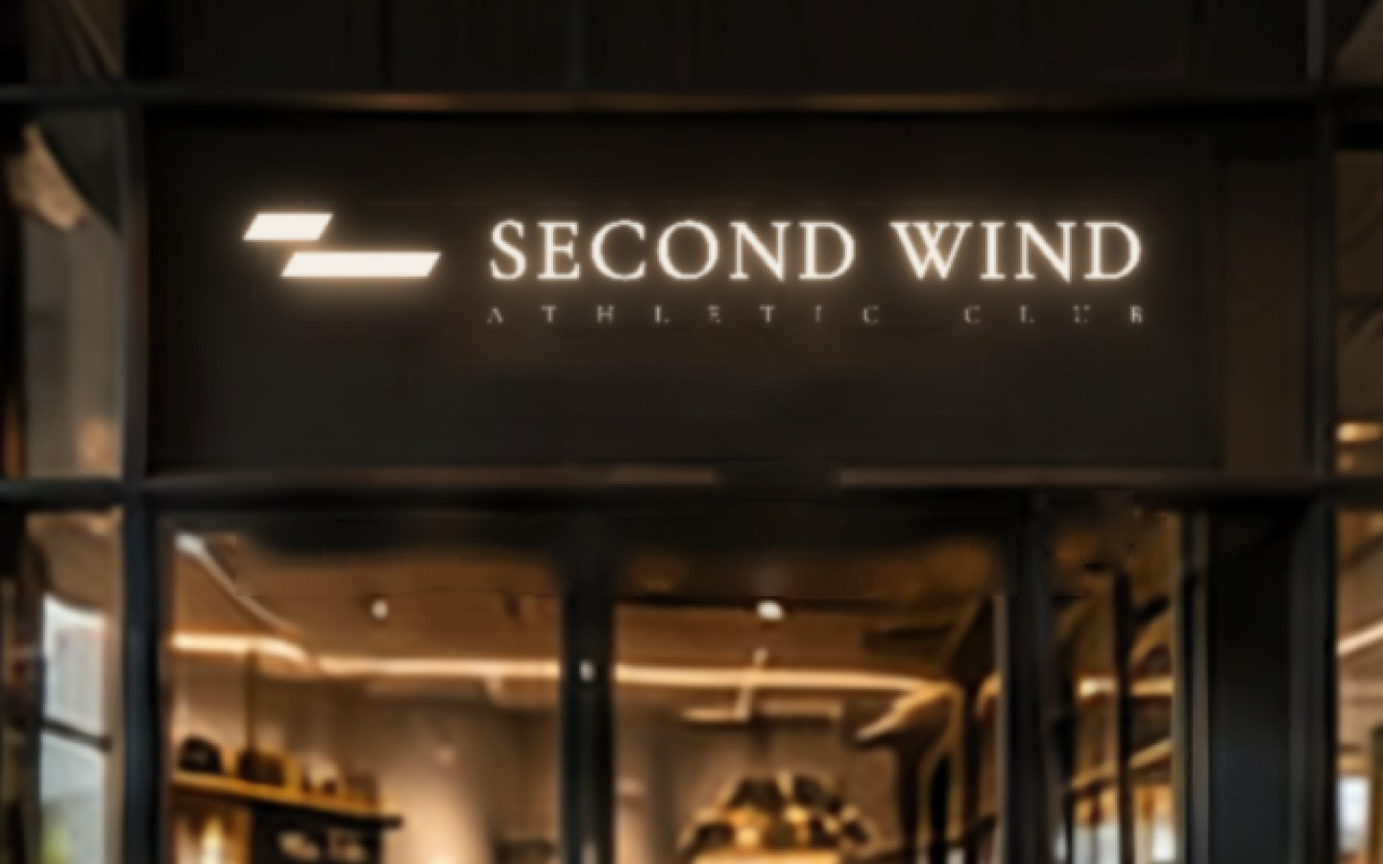
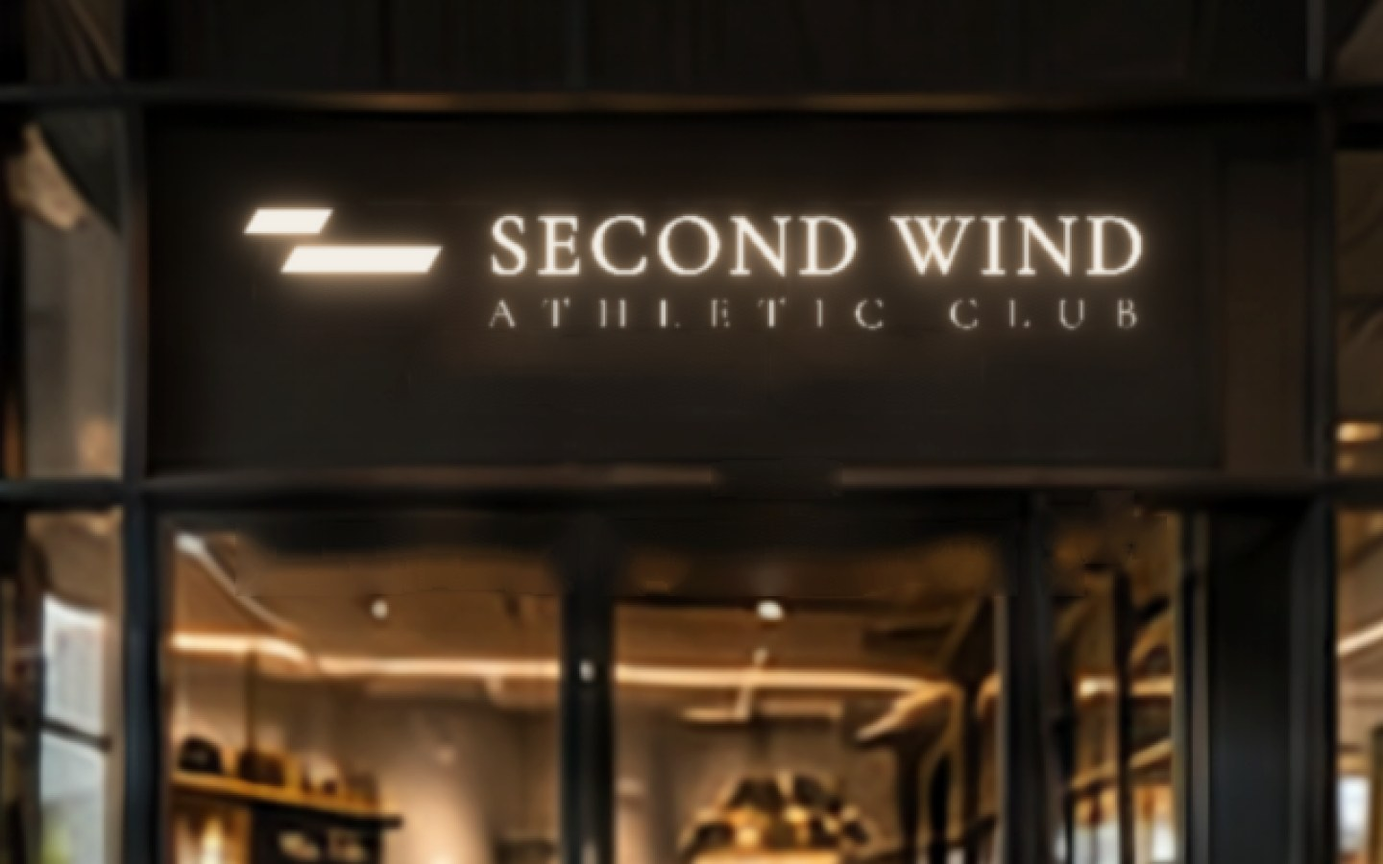
33: club line sized up to the name's width instead of stretched spacing (Sergio's ask on 15)
Claude-Session: https://claude.ai/code/session_01T7nJu2bFotHgzhJym42XGa

Changed region(s): [[0.1562, 0.2178, 0.8438, 0.4044]]

diff --git a/brand/identity.html b/brand/identity.html
@@ -265,11 +265,11 @@ html { -webkit-text-size-adjust:100%; text-size-adjust:100%; }
       <p class="k">Gym wall · linen letters, bold, warm halo 3000 K · café wall · blackened bronze letters, light, unlit · café front · lit header over the doors · glass · frosted film</p></div>
     <div class="frames">
       <div class="row2">
-        <div class="f" style="aspect-ratio:16/10;background:#1e1c1a"><img class="photo" src="photo/fam/B5-gym.jpg?v=ffdc3912" alt="The gym end wall with the stacked lockup in the bold weight, halo-lit on the charcoal wall above the kettlebells"><span class="cap" style="color:#fff;opacity:.85">Gym end wall · bold · render by HUB Interiors</span></div>
-        <div class="f" style="aspect-ratio:16/10;background:#1e1c1a"><img class="photo" src="photo/fam/B5-cafe.jpg?v=ffdc3912" alt="The café counter wall with the stacked mark in blackened bronze above Fuel good days"><span class="cap" style="color:#fff;opacity:.85">Café counter wall · light · blackened bronze</span></div>
+        <div class="f" style="aspect-ratio:16/10;background:#1e1c1a"><img class="photo" src="photo/fam/B5-gym.jpg?v=f4bc1d90" alt="The gym end wall with the stacked lockup in the bold weight, halo-lit on the charcoal wall above the kettlebells"><span class="cap" style="color:#fff;opacity:.85">Gym end wall · bold · render by HUB Interiors</span></div>
+        <div class="f" style="aspect-ratio:16/10;background:#1e1c1a"><img class="photo" src="photo/fam/B5-cafe.jpg?v=f4bc1d90" alt="The café counter wall with the stacked mark in blackened bronze above Fuel good days"><span class="cap" style="color:#fff;opacity:.85">Café counter wall · light · blackened bronze</span></div>
       </div>
-      <div class="f" style="aspect-ratio:1308/770;background:#1e1c1a"><img class="photo" src="photo/rev2-cafe-gym.jpg?v=ffdc3912" alt="The café booths looking through glass into the gym, with the symbol lit on the far wall"><span class="cap" style="color:#fff;opacity:.85">Café into gym · the symbol on the far wall</span></div>
-      <div class="f" style="aspect-ratio:1761/718;background:#fff"><img class="photo" src="photo/rev2-plan-crop.jpg?v=ffdc3912" alt="HUB concept plan, revision 2, with brand placements numbered" style="object-fit:contain">
+      <div class="f" style="aspect-ratio:1308/770;background:#1e1c1a"><img class="photo" src="photo/rev2-cafe-gym.jpg?v=f4bc1d90" alt="The café booths looking through glass into the gym, with the symbol lit on the far wall"><span class="cap" style="color:#fff;opacity:.85">Café into gym · the symbol on the far wall</span></div>
+      <div class="f" style="aspect-ratio:1761/718;background:#fff"><img class="photo" src="photo/rev2-plan-crop.jpg?v=f4bc1d90" alt="HUB concept plan, revision 2, with brand placements numbered" style="object-fit:contain">
         <span class="pin" style="left:71.5%;top:54%">1</span>
         <span class="pin" style="left:80%;top:78%">2</span>
         <span class="pin" style="left:67.8%;top:30.6%">3</span>
@@ -401,7 +401,7 @@ html { -webkit-text-size-adjust:100%; text-size-adjust:100%; }
           <div class="tabs"><i class="on">Posts</i><i>About</i><i>Photos</i><i>Reviews</i><i>More</i></div></div>
         <div class="body">
           <div class="card"><b>Intro</b><p>A café and training club in the Perth CBD. Coffee out front, a serious floor behind the glass.</p><p>📍 Suite G.01, 220 St Georges Terrace, Perth</p><p>🕕 Mon–Fri 5.30–20.00 · Sat 7.00–12.00</p><p>🔗 secondwind.club</p></div>
-          <div class="card post"><b>Second Wind Athletic Club</b><p>This is what's going in. Walnut, bronze, a numbered turf track and a lot of serious equipment. Concept by HUB Interiors. Founding memberships open soon.</p><div class="ph"><img class="photo" src="photo/hub-reception.jpg?v=ffdc3912" alt="" style="object-position:70% 50%"><div class="sl" data-sw="symbol" data-c="bone" style="left:5%;top:5%;width:12%;height:8%"></div></div></div>
+          <div class="card post"><b>Second Wind Athletic Club</b><p>This is what's going in. Walnut, bronze, a numbered turf track and a lot of serious equipment. Concept by HUB Interiors. Founding memberships open soon.</p><div class="ph"><img class="photo" src="photo/hub-reception.jpg?v=f4bc1d90" alt="" style="object-position:70% 50%"><div class="sl" data-sw="symbol" data-c="bone" style="left:5%;top:5%;width:12%;height:8%"></div></div></div>
         </div>
       </div>
       <div class="ig">
@@ -411,13 +411,13 @@ html { -webkit-text-size-adjust:100%; text-size-adjust:100%; }
         <div class="hl"><i><s></s>The build</i><i><s></s>Coaches</i><i><s></s>House rules</i><i><s></s>Founding 50</i></div>
         <div class="grid">
           <div><div class="sl" data-sw="stacked" data-c="ink" style="left:20%;top:16%;width:60%;height:68%"></div></div>
-          <div><img class="photo" src="photo/rack.jpg?v=ffdc3912" alt="" style="filter:saturate(.7) sepia(.15)"></div>
+          <div><img class="photo" src="photo/rack.jpg?v=f4bc1d90" alt="" style="filter:saturate(.7) sepia(.15)"></div>
           <div style="background:var(--green)"><p class="tile-t cond" style="left:8%;top:14%;width:84%;font-size:14cqw;color:var(--bone)">If you're pushing hard, you belong here.</p><div class="sl" data-sw="symbol" data-c="bone" style="left:8%;top:80%;width:16%;height:10%"></div></div>
           <div style="background:#cfc7b8"><p class="tile-t mono" style="left:8%;top:10%;font-size:4cqw;color:#5d5f57">The build · Week 06</p><p class="tile-t cond" style="left:8%;top:22%;width:84%;font-size:15cqw">Flooring<br>down.</p><div class="sl" data-sw="symbol" data-c="ink" style="left:8%;top:82%;width:16%;height:10%"></div></div>
-          <div><img class="photo" src="photo/tank-worn.jpg?v=ffdc3912" alt="" style="filter:saturate(.75) sepia(.1)"></div>
+          <div><img class="photo" src="photo/tank-worn.jpg?v=f4bc1d90" alt="" style="filter:saturate(.75) sepia(.1)"></div>
           <div><p class="tile-t mono" style="left:8%;top:10%;font-size:4cqw;color:var(--green)">Founding members</p><p class="tile-t cond" style="left:8%;top:22%;font-size:26cqw;line-height:.9">50</p><p class="tile-t mono" style="left:8%;top:74%;font-size:4cqw;opacity:.7">One run. Numbered.</p></div>
           <div style="background:var(--green)"><p class="tile-t cond" style="left:8%;top:24%;width:84%;font-size:17cqw;color:var(--bone)">Effort,<br>not ability.</p></div>
-          <div><img class="photo" src="photo/perth.jpg?v=ffdc3912" alt=""></div>
+          <div><img class="photo" src="photo/perth.jpg?v=f4bc1d90" alt=""></div>
           <div style="background:var(--black)"><p class="tile-t cond" style="left:8%;top:10%;font-size:48cqw;line-height:.9;color:var(--bone)">11</p><p class="tile-t mono" style="left:8%;top:76%;font-size:4cqw;color:var(--bone);opacity:.7">The turf track</p></div>
         </div>
       </div>
@@ -431,12 +431,12 @@ html { -webkit-text-size-adjust:100%; text-size-adjust:100%; }
       <p>The symbol embroiders in one direction with no counters, which is why it was built from two strokes and not a letter. Tees at $80 to $100 on heavy cotton, caps embroidered, the Founding 50 numbered and never reprinted.</p></div>
     <div class="frames">
       <div class="row3">
-        <div class="f tall"><img class="photo" src="photo/cap.jpg?v=ffdc3912" alt=""><div class="sl blend" data-sw="symbol" data-c="ink" style="left:38%;top:46%;width:24%;height:12%"></div><span class="cap" style="color:#000">Cap · symbol · 60 mm</span></div>
-        <div class="f tall"><img class="photo" src="photo/tee-hanger.jpg?v=ffdc3912" alt=""><div class="sl blend" data-sw="symbol" data-c="ink" style="left:54%;top:32%;width:8%;height:4%"></div><span class="cap" style="color:#000">Tee · left chest · 40 mm</span></div>
-        <div class="f tall"><img class="photo" src="photo/polo.jpg?v=ffdc3912" alt=""><div class="sl blend" data-sw="primary" data-c="ink" style="left:52%;top:46%;width:14%;height:6%"></div><span class="cap" style="color:#000">Coach polo · primary · 80 mm</span></div>
+        <div class="f tall"><img class="photo" src="photo/cap.jpg?v=f4bc1d90" alt=""><div class="sl blend" data-sw="symbol" data-c="ink" style="left:38%;top:46%;width:24%;height:12%"></div><span class="cap" style="color:#000">Cap · symbol · 60 mm</span></div>
+        <div class="f tall"><img class="photo" src="photo/tee-hanger.jpg?v=f4bc1d90" alt=""><div class="sl blend" data-sw="symbol" data-c="ink" style="left:54%;top:32%;width:8%;height:4%"></div><span class="cap" style="color:#000">Tee · left chest · 40 mm</span></div>
+        <div class="f tall"><img class="photo" src="photo/polo.jpg?v=f4bc1d90" alt=""><div class="sl blend" data-sw="primary" data-c="ink" style="left:52%;top:46%;width:14%;height:6%"></div><span class="cap" style="color:#000">Coach polo · primary · 80 mm</span></div>
       </div>
       <div class="row2">
-        <div class="f tall k"><img class="photo" src="photo/tank-worn.jpg?v=ffdc3912" alt=""><div class="sl screen" data-sw="symbol" data-c="bone" style="left:44%;top:64%;width:12%;height:6%"></div><span class="cap" style="color:#fff">Muscle tank · symbol · centre</span></div>
+        <div class="f tall k"><img class="photo" src="photo/tank-worn.jpg?v=f4bc1d90" alt=""><div class="sl screen" data-sw="symbol" data-c="bone" style="left:44%;top:64%;width:12%;height:6%"></div><span class="cap" style="color:#fff">Muscle tank · symbol · centre</span></div>
         <div class="f tall g"><span class="n">Founding 50 · back</span><p class="t cond" style="left:0;right:0;top:26%;text-align:center;font-size:12cqw">Founding<br>member</p><div class="bar" style="left:40%;width:20%;top:54%;height:.5cqw;background:var(--copper)"></div><p class="t mono" style="left:0;right:0;top:58%;text-align:center;font-size:2.2cqw">31.9531° S · 115.8533° E</p><div class="sl" data-sw="symbol" data-c="bone" style="left:40%;top:72%;width:20%;height:10%"></div></div>
       </div>
     </div>
@@ -455,7 +455,7 @@ html { -webkit-text-size-adjust:100%; text-size-adjust:100%; }
           <p class="t cond" style="left:5%;top:22%;width:52%;font-size:7.2cqw;line-height:.92">Serious training.<br>Explained.</p>
           <p class="t" style="left:5%;top:58%;width:44%;font-size:2.2cqw;line-height:1.3;color:var(--muted);font-family:var(--f-body)">A café and training club in the Perth CBD. Coffee out front, a serious floor behind the glass. Opening 2027.</p>
           <div class="t" style="left:5%;top:80%;background:var(--green);color:var(--bone);font-family:var(--f-label);font-size:1.7cqw;letter-spacing:.1em;text-transform:uppercase;padding:1.2cqw 2.4cqw">Join the waitlist</div>
-          <img src="photo/rack.jpg?v=ffdc3912" alt="" style="position:absolute;right:0;top:18%;width:40%;height:82%;object-fit:cover;filter:saturate(.7) sepia(.15)">
+          <img src="photo/rack.jpg?v=f4bc1d90" alt="" style="position:absolute;right:0;top:18%;width:40%;height:82%;object-fit:cover;filter:saturate(.7) sepia(.15)">
           <div class="sl" data-sw="symbol" data-c="bone" style="right:4%;top:24%;width:10%;height:6%"></div>
         </div></div>
       <div class="row3">
@@ -505,7 +505,7 @@ html { -webkit-text-size-adjust:100%; text-size-adjust:100%; }
   </div>
 </div>
 
-<script src="brand.js?v=ffdc3912"></script>
+<script src="brand.js?v=f4bc1d90"></script>
 <script>
 (function () {
   /* two extra variants for the motion frame: each stroke alone, in the symbol's own box */

diff --git a/brand/identity-alt.html b/brand/identity-alt.html
@@ -254,7 +254,7 @@ html { -webkit-text-size-adjust:100%; text-size-adjust:100%; }
         <div class="f" style="aspect-ratio:16/10;background:#1e1c1a"><img class="photo" data-src="cafe" src="" alt="The café counter wall with the stacked mark in blackened bronze above Fuel good days"><span class="cap" style="color:#fff;opacity:.85">Café counter wall · light · blackened bronze</span></div>
       </div>
       <div class="f" style="aspect-ratio:1308/770;background:#1e1c1a"><img class="photo" data-src="cafegym" src="" alt="The café booths looking through glass into the gym, with the symbol lit on the far wall"><span class="cap" style="color:#fff;opacity:.85">Café into gym · the symbol on the far wall</span></div>
-      <div class="f" style="aspect-ratio:1761/718;background:#fff"><img class="photo" src="photo/rev2-plan-crop.jpg?v=ffdc3912" alt="HUB concept plan, revision 2, with brand placements numbered" style="object-fit:contain">
+      <div class="f" style="aspect-ratio:1761/718;background:#fff"><img class="photo" src="photo/rev2-plan-crop.jpg?v=f4bc1d90" alt="HUB concept plan, revision 2, with brand placements numbered" style="object-fit:contain">
         <span class="pin" style="left:71.5%;top:54%">1</span>
         <span class="pin" style="left:80%;top:78%">2</span>
         <span class="pin" style="left:67.8%;top:30.6%">3</span>
@@ -386,7 +386,7 @@ html { -webkit-text-size-adjust:100%; text-size-adjust:100%; }
           <div class="tabs"><i class="on">Posts</i><i>About</i><i>Photos</i><i>Reviews</i><i>More</i></div></div>
         <div class="body">
           <div class="card"><b>Intro</b><p>A café and training club in the Perth CBD. Coffee out front, a serious floor behind the glass.</p><p>📍 Suite G.01, 220 St Georges Terrace, Perth</p><p>🕕 Mon–Fri 5.30–20.00 · Sat 7.00–12.00</p><p>🔗 secondwind.club</p></div>
-          <div class="card post"><b>Second Wind Athletic Club</b><p>This is what's going in. Walnut, bronze, a numbered turf track and a lot of serious equipment. Concept by HUB Interiors. Founding memberships open soon.</p><div class="ph"><img class="photo" src="photo/hub-reception.jpg?v=ffdc3912" alt="" style="object-position:70% 50%"><div class="sl" data-sw="symbol" data-c="bone" style="left:5%;top:5%;width:12%;height:8%"></div></div></div>
+          <div class="card post"><b>Second Wind Athletic Club</b><p>This is what's going in. Walnut, bronze, a numbered turf track and a lot of serious equipment. Concept by HUB Interiors. Founding memberships open soon.</p><div class="ph"><img class="photo" src="photo/hub-reception.jpg?v=f4bc1d90" alt="" style="object-position:70% 50%"><div class="sl" data-sw="symbol" data-c="bone" style="left:5%;top:5%;width:12%;height:8%"></div></div></div>
         </div>
       </div>
       <div class="ig">
@@ -396,13 +396,13 @@ html { -webkit-text-size-adjust:100%; text-size-adjust:100%; }
         <div class="hl"><i><s></s>The build</i><i><s></s>Coaches</i><i><s></s>House rules</i><i><s></s>Founding 50</i></div>
         <div class="grid">
           <div><div class="sl" data-sw="stacked" data-c="ink" style="left:20%;top:16%;width:60%;height:68%"></div></div>
-          <div><img class="photo" src="photo/rack.jpg?v=ffdc3912" alt="" style="filter:saturate(.7) sepia(.15)"></div>
+          <div><img class="photo" src="photo/rack.jpg?v=f4bc1d90" alt="" style="filter:saturate(.7) sepia(.15)"></div>
           <div style="background:var(--green)"><p class="tile-t cond" style="left:8%;top:14%;width:84%;font-size:14cqw;color:var(--bone)">If you're pushing hard, you belong here.</p><div class="sl" data-sw="symbol" data-c="bone" style="left:8%;top:80%;width:16%;height:10%"></div></div>
           <div style="background:#cfc7b8"><p class="tile-t mono" style="left:8%;top:10%;font-size:4cqw;color:#5d5f57">The build · Week 06</p><p class="tile-t cond" style="left:8%;top:22%;width:84%;font-size:15cqw">Flooring<br>down.</p><div class="sl" data-sw="symbol" data-c="ink" style="left:8%;top:82%;width:16%;height:10%"></div></div>
-          <div><img class="photo" src="photo/tank-worn.jpg?v=ffdc3912" alt="" style="filter:saturate(.75) sepia(.1)"></div>
+          <div><img class="photo" src="photo/tank-worn.jpg?v=f4bc1d90" alt="" style="filter:saturate(.75) sepia(.1)"></div>
           <div><p class="tile-t mono" style="left:8%;top:10%;font-size:4cqw;color:var(--green)">Founding members</p><p class="tile-t cond" style="left:8%;top:22%;font-size:26cqw;line-height:.9">50</p><p class="tile-t mono" style="left:8%;top:74%;font-size:4cqw;opacity:.7">One run. Numbered.</p></div>
           <div style="background:var(--green)"><p class="tile-t cond" style="left:8%;top:24%;width:84%;font-size:17cqw;color:var(--bone)">Effort,<br>not ability.</p></div>
-          <div><img class="photo" src="photo/perth.jpg?v=ffdc3912" alt=""></div>
+          <div><img class="photo" src="photo/perth.jpg?v=f4bc1d90" alt=""></div>
           <div style="background:var(--black)"><p class="tile-t cond" style="left:8%;top:10%;font-size:48cqw;line-height:.9;color:var(--bone)">11</p><p class="tile-t mono" style="left:8%;top:76%;font-size:4cqw;color:var(--bone);opacity:.7">The turf track</p></div>
         </div>
       </div>
@@ -416,12 +416,12 @@ html { -webkit-text-size-adjust:100%; text-size-adjust:100%; }
       <p><span data-t="embroider"></span> Tees at $80 to $100 on heavy cotton, caps embroidered, the Founding 50 numbered and never reprinted.</p></div>
     <div class="frames">
       <div class="row3">
-        <div class="f tall"><img class="photo" src="photo/cap.jpg?v=ffdc3912" alt=""><div class="sl blend" data-sw="symbol" data-c="ink" style="left:38%;top:46%;width:24%;height:12%"></div><span class="cap" style="color:#000">Cap · symbol · 60 mm</span></div>
-        <div class="f tall"><img class="photo" src="photo/tee-hanger.jpg?v=ffdc3912" alt=""><div class="sl blend" data-sw="symbol" data-c="ink" style="left:54%;top:32%;width:8%;height:4%"></div><span class="cap" style="color:#000">Tee · left chest · 40 mm</span></div>
-        <div class="f tall"><img class="photo" src="photo/polo.jpg?v=ffdc3912" alt=""><div class="sl blend" data-sw="primary" data-c="ink" style="left:52%;top:46%;width:14%;height:6%"></div><span class="cap" style="color:#000">Coach polo · primary · 80 mm</span></div>
+        <div class="f tall"><img class="photo" src="photo/cap.jpg?v=f4bc1d90" alt=""><div class="sl blend" data-sw="symbol" data-c="ink" style="left:38%;top:46%;width:24%;height:12%"></div><span class="cap" style="color:#000">Cap · symbol · 60 mm</span></div>
+        <div class="f tall"><img class="photo" src="photo/tee-hanger.jpg?v=f4bc1d90" alt=""><div class="sl blend" data-sw="symbol" data-c="ink" style="left:54%;top:32%;width:8%;height:4%"></div><span class="cap" style="color:#000">Tee · left chest · 40 mm</span></div>
+        <div class="f tall"><img class="photo" src="photo/polo.jpg?v=f4bc1d90" alt=""><div class="sl blend" data-sw="primary" data-c="ink" style="left:52%;top:46%;width:14%;height:6%"></div><span class="cap" style="color:#000">Coach polo · primary · 80 mm</span></div>
       </div>
       <div class="row2">
-        <div class="f tall k"><img class="photo" src="photo/tank-worn.jpg?v=ffdc3912" alt=""><div class="sl screen" data-sw="symbol" data-c="bone" style="left:44%;top:64%;width:12%;height:6%"></div><span class="cap" style="color:#fff">Muscle tank · symbol · centre</span></div>
+        <div class="f tall k"><img class="photo" src="photo/tank-worn.jpg?v=f4bc1d90" alt=""><div class="sl screen" data-sw="symbol" data-c="bone" style="left:44%;top:64%;width:12%;height:6%"></div><span class="cap" style="color:#fff">Muscle tank · symbol · centre</span></div>
         <div class="f tall g"><span class="n">Founding 50 · back</span><p class="t cond" style="left:0;right:0;top:26%;text-align:center;font-size:12cqw">Founding<br>member</p><div class="bar" style="left:40%;width:20%;top:54%;height:.5cqw;background:var(--copper)"></div><p class="t mono" style="left:0;right:0;top:58%;text-align:center;font-size:2.2cqw">31.9531° S · 115.8533° E</p><div class="sl" data-sw="symbol" data-c="bone" style="left:40%;top:72%;width:20%;height:10%"></div></div>
       </div>
     </div>
@@ -440,7 +440,7 @@ html { -webkit-text-size-adjust:100%; text-size-adjust:100%; }
           <p class="t cond" style="left:5%;top:22%;width:52%;font-size:7.2cqw;line-height:.92">Serious training.<br>Explained.</p>
           <p class="t" style="left:5%;top:58%;width:44%;font-size:2.2cqw;line-height:1.3;color:var(--muted);font-family:var(--f-body)">A café and training club in the Perth CBD. Coffee out front, a serious floor behind the glass. Opening 2027.</p>
           <div class="t" style="left:5%;top:80%;background:var(--green);color:var(--bone);font-family:var(--f-label);font-size:1.7cqw;letter-spacing:.1em;text-transform:uppercase;padding:1.2cqw 2.4cqw">Join the waitlist</div>
-          <img src="photo/rack.jpg?v=ffdc3912" alt="" style="position:absolute;right:0;top:18%;width:40%;height:82%;object-fit:cover;filter:saturate(.7) sepia(.15)">
+          <img src="photo/rack.jpg?v=f4bc1d90" alt="" style="position:absolute;right:0;top:18%;width:40%;height:82%;object-fit:cover;filter:saturate(.7) sepia(.15)">
           <div class="sl" data-sw="symbol" data-c="bone" style="right:4%;top:24%;width:10%;height:6%"></div>
         </div></div>
       <div class="row3">
@@ -474,9 +474,9 @@ html { -webkit-text-size-adjust:100%; text-size-adjust:100%; }
   </div>
 </div>
 
-<script src="brand.js?v=ffdc3912"></script>
-<script src="fonts.js?v=ffdc3912"></script>
-<script src="family.js?v=ffdc3912"></script>
+<script src="brand.js?v=f4bc1d90"></script>
+<script src="fonts.js?v=f4bc1d90"></script>
+<script src="family.js?v=f4bc1d90"></script>
 <script>
 (function () {
   var L = {

diff --git a/brand/review.html b/brand/review.html
@@ -142,9 +142,9 @@ a:focus-visible { outline:2px solid var(--bronze); outline-offset:3px; }
   </section>
 </div>
 
-<script src="brand.js?v=ffdc3912"></script>
-<script src="fonts.js?v=ffdc3912"></script>
-<script src="family.js?v=ffdc3912"></script>
+<script src="brand.js?v=f4bc1d90"></script>
+<script src="fonts.js?v=f4bc1d90"></script>
+<script src="family.js?v=f4bc1d90"></script>
 <script>
 (function () {
   var W = [['light', 'Light'], ['medium', 'Medium'], ['bold', 'Bold'], ['lean', 'Bold, leaning']];
@@ -259,9 +259,9 @@ a:focus-visible { outline:2px solid var(--bronze); outline-offset:3px; }
       works: ['A system, not a second logo: one stroke for the café, two for the gym', 'The serif makes the café feel like its own place, as you wanted', 'Centred and balanced on the counter wall above Fuel good days'],
       struggles: ['A second name to protect and explain; check it is free to use before it goes on a cup', 'Thin serif lines need the light weight indoors only, never lit outside'],
       verdict: 'good', vt: 'The café system', vp: 'If you confirm the name, this is the café. The one stroke does the explaining.' },
-    R6: { title: 'Serif strokes, full width', fam: 'Round four: from your feedback, 8 Nov', idea: 'Serif strokes (15) with the change you asked for: the club line now runs exactly the width of SECOND WIND.',
-      works: ['Neater: one clean block of type beside the strokes', 'Keeps the two strokes with the serif for anywhere both need to meet'],
-      struggles: ['Wide club-line spacing at small sizes', 'Two type voices in one line, as before'],
+    R6: { title: 'Serif strokes, full width', fam: 'Round four: from your feedback, 8 Nov', idea: 'Serif strokes (15) with the change you asked for: ATHLETIC CLUB sized up so it runs exactly the width of SECOND WIND, with a little tracking so the letters are not stretched.',
+      works: ['Neater: one clean block of type beside the strokes, both lines the same width', 'Keeps the two strokes with the serif for anywhere both need to meet'],
+      struggles: ['The club line is now almost as loud as the name', 'Two type voices in one line, as before'],
       verdict: 'ok', vt: 'Fixed as asked', vp: 'Probably the bridge between the café and the club rather than a lead mark.' },
     R7: { title: 'Second Wind Café', fam: 'Round four: the café, from your feedback', idea: 'The same café mark with the club\'s own name, in case First Wind is not confirmed. One stroke, serif, centred.',
       works: ['No second name to register or explain', 'Still separates the café from the gym through type and the single stroke'],
@@ -397,9 +397,9 @@ a:focus-visible { outline:2px solid var(--bronze); outline-offset:3px; }
       '<div class="hero"><div class="mk">' + SWF.svg(id, 'light', '#f3efe7') + '</div></div>' +
       '<div class="grid"><div class="box"><h3>Four weights</h3><div class="weights">' + ws + '</div></div><div class="box"><h3>At icon size</h3><div class="icons">' + ic + '</div><p style="font-size:14px;color:var(--muted)">Profile picture, app icon, cup sleeve, glass, start line.</p></div></div>' +
       '<div class="box" style="gap:16px"><h3>In HUB\'s renders</h3><div class="hub">' +
-        '<figure><img src="photo/fam/' + id + '-cafe.jpg?v=ffdc3912" alt="' + r.title + ' on the café counter wall, blackened bronze letters above Fuel good days" loading="lazy"><figcaption>Café wall · light · unlit bronze</figcaption></figure>' +
-        '<figure><img src="photo/fam/' + id + '-gym.jpg?v=ffdc3912" alt="' + r.title + ' lit on the gym end wall" loading="lazy"><figcaption>Gym end wall · bold · halo-lit</figcaption></figure>' +
-        '<figure><img src="photo/fam/' + id + '-shop.jpg?v=ffdc3912" alt="' + r.title + ' lit on the shopfront fascia" loading="lazy"><figcaption>Shopfront · bold · lit</figcaption></figure></div></div>' +
+        '<figure><img src="photo/fam/' + id + '-cafe.jpg?v=f4bc1d90" alt="' + r.title + ' on the café counter wall, blackened bronze letters above Fuel good days" loading="lazy"><figcaption>Café wall · light · unlit bronze</figcaption></figure>' +
+        '<figure><img src="photo/fam/' + id + '-gym.jpg?v=f4bc1d90" alt="' + r.title + ' lit on the gym end wall" loading="lazy"><figcaption>Gym end wall · bold · halo-lit</figcaption></figure>' +
+        '<figure><img src="photo/fam/' + id + '-shop.jpg?v=f4bc1d90" alt="' + r.title + ' lit on the shopfront fascia" loading="lazy"><figcaption>Shopfront · bold · lit</figcaption></figure></div></div>' +
       '<div class="copy"><div class="c"><h3>The idea</h3><p>' + r.idea + '</p></div><div class="c"><h3>Where it works</h3><ul>' + li(r.works) + '</ul></div><div class="c"><h3>Where it may struggle</h3><ul>' + li(r.struggles) + '</ul></div></div>' +
       fbBlock(id) + '<div class="verdict"><b>' + r.vt + '</b><span class="pill ' + r.verdict + '">' + (r.verdict === 'good' ? 'Passes every test' : r.verdict === 'ok' ? 'Passes some' : 'Fails the small-size test') + '</span><p>' + r.vp + '</p></div>' +
       '<div class="fb" data-id="' + id + '" data-title="' + num + ' · ' + r.title + '"><div class="fbh"><h3>Your take</h3><div class="opts"><button type="button" data-v="like">Like it</button><button type="button" data-v="maybe">Maybe</button><button type="button" data-v="no">Not for me</button></div></div><textarea placeholder="Anything you like or don\'t about this one, in a line or two" aria-label="Comment on ' + r.title + '"></textarea></div>' +

diff --git a/brand/guidelines.html b/brand/guidelines.html
@@ -185,7 +185,7 @@ td.mono { font-family:var(--f-label); font-size:13px; }
       <div class="f sq"><span class="n">Don't recolour</span><div class="slot" data-sw="primary" data-c="#3f7a5a" style="left:12%;top:32%;width:76%;height:36%"></div><div class="cross"></div></div>
       <div class="f sq"><span class="n">Don't rotate</span><div class="slot" data-sw="primary" data-c="ink" style="left:12%;top:32%;width:76%;height:36%;transform:rotate(-14deg)"></div><div class="cross"></div></div>
       <div class="f sq"><span class="n">No effects</span><div class="slot" data-sw="primary" data-c="ink" style="left:12%;top:32%;width:76%;height:36%;filter:drop-shadow(1cqw 1cqw 0 #a2723f)"></div><div class="cross"></div></div>
-      <div class="f sq"><span class="n">Not on busy photos</span><img class="photo" src="photo/floor.jpg?v=ffdc3912" alt=""><div class="slot" data-sw="primary" data-c="bone" style="left:12%;top:32%;width:76%;height:36%"></div><div class="cross"></div></div>
+      <div class="f sq"><span class="n">Not on busy photos</span><img class="photo" src="photo/floor.jpg?v=f4bc1d90" alt=""><div class="slot" data-sw="primary" data-c="bone" style="left:12%;top:32%;width:76%;height:36%"></div><div class="cross"></div></div>
       <div class="f sq g"><span class="n">Don't add a tagline</span><div class="slot" data-sw="primary" data-c="bone" style="left:12%;top:26%;width:76%;height:36%"></div><p class="t cond" style="left:0;right:0;top:66%;text-align:center;font-size:5cqw">Unleash your potential</p><div class="cross"></div></div>
     </div>
   </section>
@@ -196,8 +196,8 @@ td.mono { font-family:var(--f-label); font-size:13px; }
     <p>HUB Interiors' concept, revision 2, sets where the brand appears. You arrive through the building's foyer; the café is a glass box on that foyer and the gym sits behind it, so the café front is the brand's first appearance, then the counter wall, the glazing between café and gym, the gym's end wall and the turf track. The full name goes in three places only; the symbol does the rest.</p>
     <p><b>Weights.</b> Light in the café and on anything held or read up close (counter wall, cups, menus, print, the website). Bold in the gym and anywhere the mark must carry distance (gym walls, the café front header, merch, social). One logo, two weights, never mixed on one surface. <span class="draft">Split to be confirmed by Sergio</span></p>
     <div class="two">
-      <div class="f" style="background:#1e1c1a"><img class="photo" src="photo/fam/B5-cafe.jpg?v=ffdc3912" alt="The café counter wall, the stacked mark in blackened bronze above Fuel good days"><span class="cap" style="color:#fff">Café counter wall · light · render by HUB Interiors</span></div>
-      <div class="f" style="background:#1e1c1a"><img class="photo" src="photo/fam/B5-gym.jpg?v=ffdc3912" alt="The gym end wall with the stacked lockup in bold, halo-lit"><span class="cap" style="color:#fff">Gym end wall · bold</span></div>
+      <div class="f" style="background:#1e1c1a"><img class="photo" src="photo/fam/B5-cafe.jpg?v=f4bc1d90" alt="The café counter wall, the stacked mark in blackened bronze above Fuel good days"><span class="cap" style="color:#fff">Café counter wall · light · render by HUB Interiors</span></div>
+      <div class="f" style="background:#1e1c1a"><img class="photo" src="photo/fam/B5-gym.jpg?v=f4bc1d90" alt="The gym end wall with the stacked lockup in bold, halo-lit"><span class="cap" style="color:#fff">Gym end wall · bold</span></div>
     </div>
     <table>
       <tr><th>Place</th><th>Mark</th><th>Specification</th></tr>
@@ -322,9 +322,9 @@ td.mono { font-family:var(--f-label); font-size:13px; }
     </div>
     <h3>Treatment</h3>
     <div class="three">
-      <div class="f sq"><img class="photo" src="photo/rack.jpg?v=ffdc3912" alt="" style="filter:saturate(.7) sepia(.12) contrast(.98)"><span class="cap" style="color:#fff">Warm, desaturated 30%</span></div>
-      <div class="f sq"><img class="photo" src="photo/tank-worn.jpg?v=ffdc3912" alt="" style="filter:saturate(.75) sepia(.1)"><span class="cap" style="color:#fff">People: straight, calm</span></div>
-      <div class="f sq"><img class="photo" src="photo/polo.jpg?v=ffdc3912" alt="" style="filter:saturate(.8) sepia(.08)"><span class="cap" style="color:#fff">Coaches: in the kit, outdoors is fine</span></div>
+      <div class="f sq"><img class="photo" src="photo/rack.jpg?v=f4bc1d90" alt="" style="filter:saturate(.7) sepia(.12) contrast(.98)"><span class="cap" style="color:#fff">Warm, desaturated 30%</span></div>
+      <div class="f sq"><img class="photo" src="photo/tank-worn.jpg?v=f4bc1d90" alt="" style="filter:saturate(.75) sepia(.1)"><span class="cap" style="color:#fff">People: straight, calm</span></div>
+      <div class="f sq"><img class="photo" src="photo/polo.jpg?v=f4bc1d90" alt="" style="filter:saturate(.8) sepia(.08)"><span class="cap" style="color:#fff">Coaches: in the kit, outdoors is fine</span></div>
     </div>
     <h3>The launch shot list <span class="draft">draft</span></h3>
     <table>
@@ -415,6 +415,6 @@ td.mono { font-family:var(--f-label); font-size:13px; }
   </section>
 </div>
 
-<script src="brand.js?v=ffdc3912"></script>
+<script src="brand.js?v=f4bc1d90"></script>
 <script>SW.fill();</script>
 </html>

diff --git a/brand/options.html b/brand/options.html
@@ -100,10 +100,10 @@ a:focus-visible { outline:2px solid var(--bronze); outline-offset:3px; }
     <div class="sh"><p class="label">The gym end wall · HUB Interiors render</p><h2 id="h-gym">Where the weight matters</h2>
       <p>The gym is dark and heavy: racks, plates, black walls. This is the test that separates the four.</p></div>
     <div class="g2">
-      <figure><img src="photo/optc-A-gym.jpg?v=ffdc3912" alt="Gym end wall with the light wordmark lit on the charcoal wall"><figcaption><b>A</b> Light</figcaption></figure>
-      <figure><img src="photo/optc-B-gym.jpg?v=ffdc3912" alt="Gym end wall with the medium wordmark"><figcaption><b>B</b> Medium</figcaption></figure>
-      <figure><img src="photo/optc-C-gym.jpg?v=ffdc3912" alt="Gym end wall with the bold wordmark"><figcaption><b>C</b> Bold</figcaption></figure>
-      <figure><img src="photo/optc-D-gym.jpg?v=ffdc3912" alt="Gym end wall with the bold leaning wordmark"><figcaption><b>D</b> Bold, leaning</figcaption></figure>
+      <figure><img src="photo/optc-A-gym.jpg?v=f4bc1d90" alt="Gym end wall with the light wordmark lit on the charcoal wall"><figcaption><b>A</b> Light</figcaption></figure>
+      <figure><img src="photo/optc-B-gym.jpg?v=f4bc1d90" alt="Gym end wall with the medium wordmark"><figcaption><b>B</b> Medium</figcaption></figure>
+      <figure><img src="photo/optc-C-gym.jpg?v=f4bc1d90" alt="Gym end wall with the bold wordmark"><figcaption><b>C</b> Bold</figcaption></figure>
+      <figure><img src="photo/optc-D-gym.jpg?v=f4bc1d90" alt="Gym end wall with the bold leaning wordmark"><figcaption><b>D</b> Bold, leaning</figcaption></figure>
     </div>
   </section>
 
@@ -111,8 +111,8 @@ a:focus-visible { outline:2px solid var(--bronze); outline-offset:3px; }
     <div class="sh"><p class="label">My favourite</p><h2 id="h-rec">Light in the café. Bold in the gym.</h2>
       <p>One logo, two weights, each where it works best. Light reads as calm and considered up close. Bold holds its own from across a room or a street.</p></div>
     <div class="pair">
-      <figure><img src="photo/optc-A-cafe.jpg?v=ffdc3912" alt="Café counter wall with the light wordmark in blackened bronze above Fuel good days"><figcaption><b>A</b> Light · the café</figcaption><p class="use">Café wall, cups, menus, website, print.</p></figure>
-      <figure><img src="photo/optc-C-gym.jpg?v=ffdc3912" alt="Gym end wall with the bold wordmark lit"><figcaption><b>C</b> Bold · the gym</figcaption><p class="use">Gym wall, shopfront, merch, social.</p></figure>
+      <figure><img src="photo/optc-A-cafe.jpg?v=f4bc1d90" alt="Café counter wall with the light wordmark in blackened bronze above Fuel good days"><figcaption><b>A</b> Light · the café</figcaption><p class="use">Café wall, cups, menus, website, print.</p></figure>
+      <figure><img src="photo/optc-C-gym.jpg?v=f4bc1d90" alt="Gym end wall with the bold wordmark lit"><figcaption><b>C</b> Bold · the gym</figcaption><p class="use">Gym wall, shopfront, merch, social.</p></figure>
     </div>
   </section>
 
@@ -130,7 +130,7 @@ a:focus-visible { outline:2px solid var(--bronze); outline-offset:3px; }
   </section>
 </div>
 
-<script src="brand.js?v=ffdc3912"></script>
+<script src="brand.js?v=f4bc1d90"></script>
 <script>
 (function () {
   var OPT = { A: {}, B: { weight: 'medium' }, C: { weight: 'bold' }, D: { weight: 'bold', lean: true } };

diff --git a/brand/hubpack.html b/brand/hubpack.html
@@ -94,7 +94,7 @@ a:focus-visible { outline:2px solid var(--bronze); outline-offset:3px; }
   </section>
 </div>
 
-<script src="brand.js?v=ffdc3912"></script>
+<script src="brand.js?v=f4bc1d90"></script>
 <script>
 (function () {
   document.querySelector('.brand').innerHTML = SW.svg('primary', 'currentColor', { attrs: ' aria-hidden="true"' });
@@ -115,9 +115,9 @@ a:focus-visible { outline:2px solid var(--bronze); outline-offset:3px; }
     var n = ('0' + pg[0]).slice(-2);
     html += '<section class="page" aria-labelledby="p' + n + '"><div class="ph"><div><p class="n">Page ' + pg[0] + ' of 10</p><h2 id="p' + n + '">' + pg[1] + '</h2></div>' + (pg[2] ? '<p class="what">' + pg[2] + '</p>' : '<p class="what">No branding on this page. Shown as HUB sent it.</p>') + '</div>';
     if (pg[2]) {
-      html += '<div class="cmp" style="--x:50%"><img class="after" src="hub/after-' + n + '.jpg?v=ffdc3912" alt="Page ' + pg[0] + ' with the Second Wind mark" loading="lazy"><img class="before" src="hub/before-' + n + '.jpg?v=ffdc3912" alt="" loading="lazy"><span class="tag l">HUB original</span><span class="tag r">With our mark</span><input type="range" min="0" max="100" value="50" aria-label="Compare before and after on page ' + pg[0] + '"><span class="bar"></span><span class="knob" aria-hidden="true">&#8596;</span></div>';
+      html += '<div class="cmp" style="--x:50%"><img class="after" src="hub/after-' + n + '.jpg?v=f4bc1d90" alt="Page ' + pg[0] + ' with the Second Wind mark" loading="lazy"><img class="before" src="hub/before-' + n + '.jpg?v=f4bc1d90" alt="" loading="lazy"><span class="tag l">HUB original</span><span class="tag r">With our mark</span><input type="range" min="0" max="100" value="50" aria-label="Compare before and after on page ' + pg[0] + '"><span class="bar"></span><span class="knob" aria-hidden="true">&#8596;</span></div>';
     } else {
-      html += '<div class="still"><img src="hub/after-' + n + '.jpg?v=ffdc3912" alt="Page ' + pg[0] + ', ' + pg[1] + '" loading="lazy"></div>';
+      html += '<div class="still"><img src="hub/after-' + n + '.jpg?v=f4bc1d90" alt="Page ' + pg[0] + ', ' + pg[1] + '" loading="lazy"></div>';
     }
     html += '</section>';
   });

diff --git a/brand/family.js b/brand/family.js
@@ -218,9 +218,9 @@
     R6: function (p, k) {
       var fw = k === 'light' ? 400 : k === 'medium' ? 500 : 700, it = k === 'lean' ? ' font-style="italic"' : '';
       var sy = (H - SW.SYM_H) / 2 + 2, wx = SW.SYM_W + 48, tw = 700;
-      return { vb: '-10 -14 ' + (wx + tw + 30) + ' 172', inner: '<g transform="translate(0 ' + sy + ')">' + sym() + '</g>' +
+      return { vb: '-10 -14 ' + (wx + tw + 30) + ' 182', inner: '<g transform="translate(0 ' + sy + ')">' + sym() + '</g>' +
         '<text x="' + wx + '" y="86" ' + SERF.replace('400', fw) + it + ' font-size="92" textLength="' + tw + '" lengthAdjust="spacing" fill="currentColor">SECOND WIND</text>' +
-        '<text x="' + wx + '" y="134" ' + SERF + ' font-size="26" textLength="' + tw + '" lengthAdjust="spacing" fill="currentColor">ATHLETIC CLUB</text>' };
+        '<text x="' + wx + '" y="144" ' + SERF + ' font-size="46" letter-spacing="7" textLength="' + tw + '" lengthAdjust="spacing" fill="currentColor">ATHLETIC CLUB</text>' };
     },
     R7: function (p, k) { return cafeR4('SECOND WIND', p, k); },
     /* 16 exactly, with one stroke: the café version Sergio described */

diff --git a/brand/walkthrough.html b/brand/walkthrough.html
@@ -70,9 +70,9 @@ html, body { margin:0; height:100%; background:#141210; color:var(--linen); font
 <div class="ui pad"><button id="fwd" aria-label="Walk forward">▲</button><button id="back" aria-label="Walk back">▼</button></div>
 <div class="ui spots" id="spots"></div>
 
-<script src="brand.js?v=ffdc3912"></script>
-<script src="fonts.js?v=ffdc3912"></script>
-<script src="family.js?v=ffdc3912"></script>
+<script src="brand.js?v=f4bc1d90"></script>
+<script src="fonts.js?v=f4bc1d90"></script>
+<script src="family.js?v=f4bc1d90"></script>
 <script type="importmap">
 { "imports": { "three": "./vendor/three/three.module.js", "three/addons/": "./vendor/three/addons/" } }
 </script>
